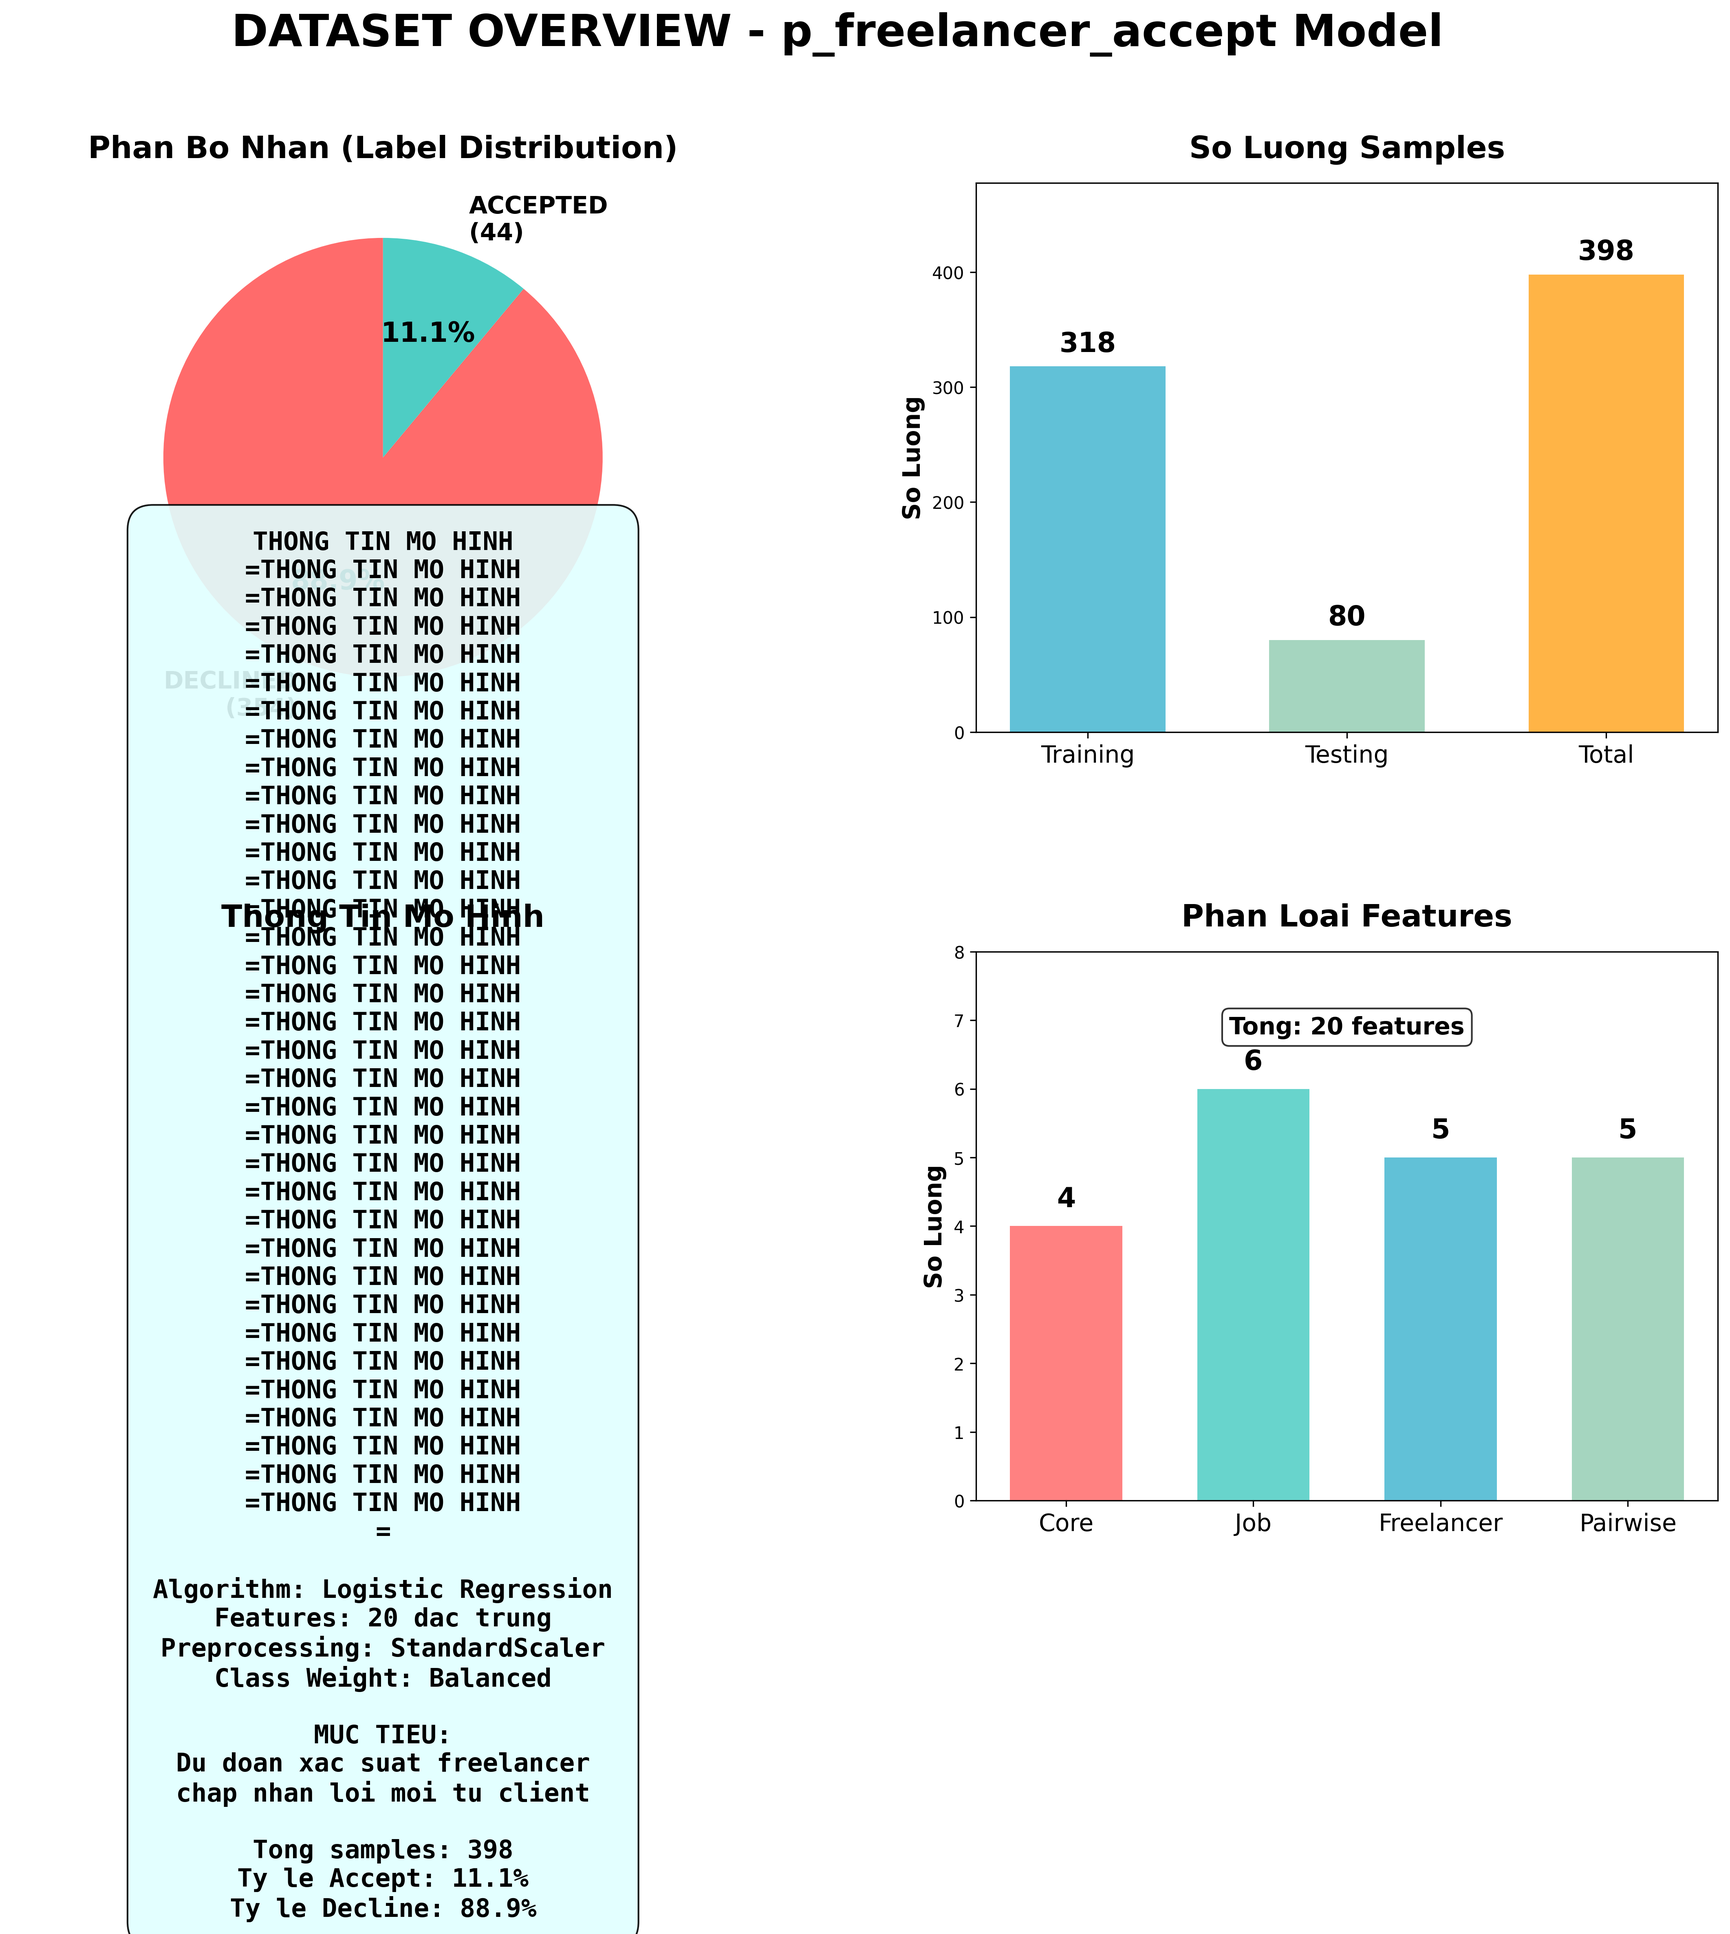
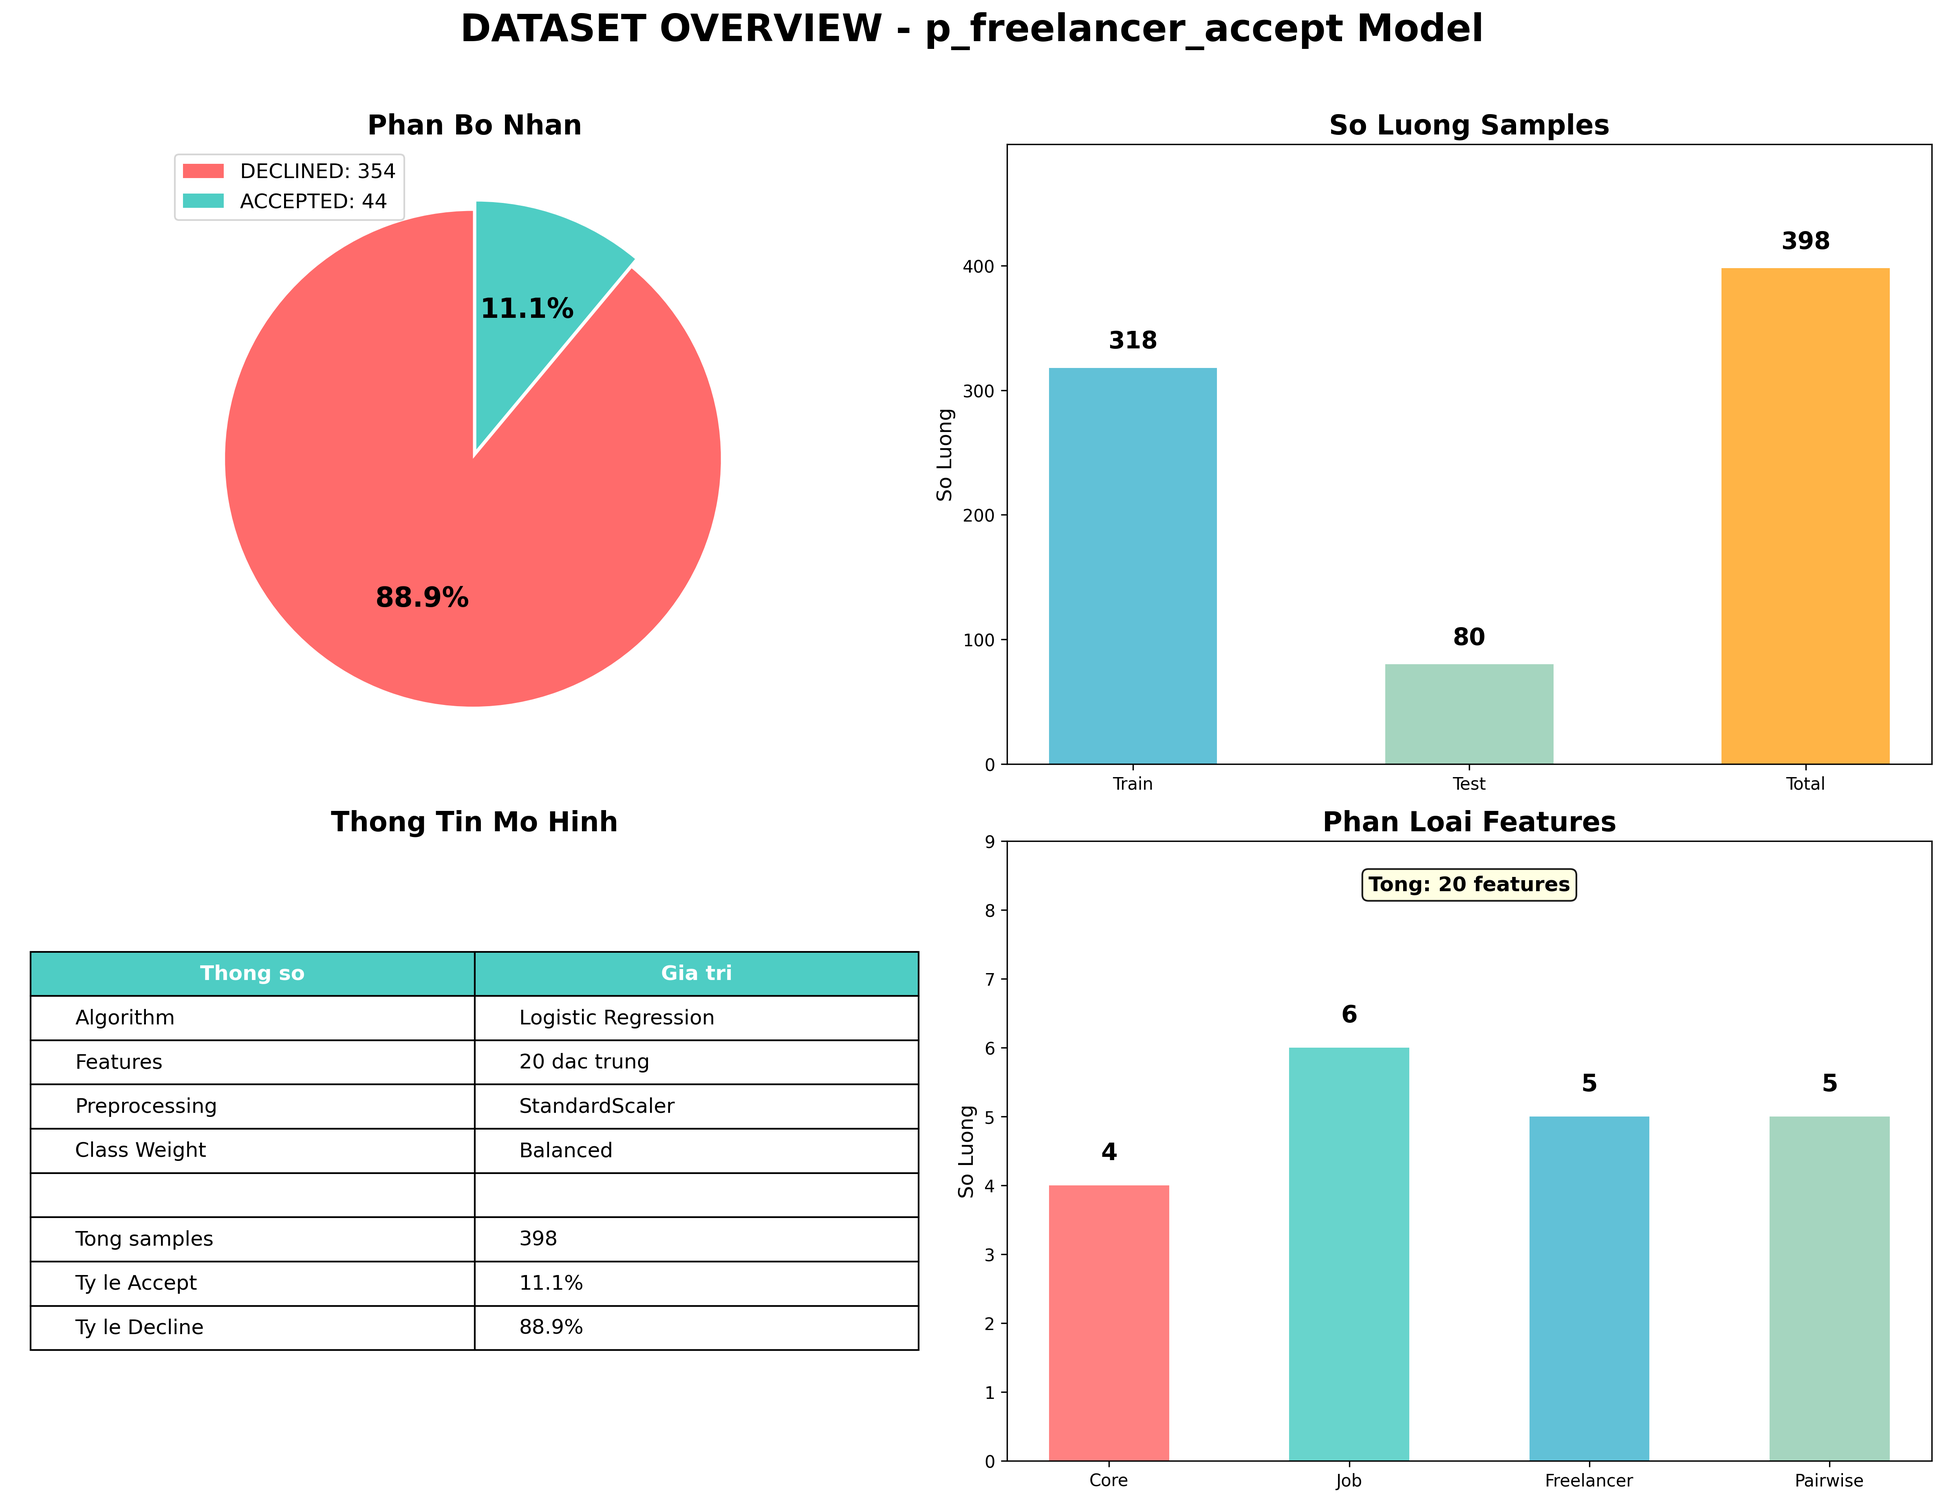
statistic file

diff --git a/app/workers/train_p_match_separate_charts.py b/app/workers/train_p_match_separate_charts.py
@@ -214,83 +214,91 @@ def create_feature_importance_chart(model, feature_cols):
 def create_dataset_overview_chart(dataset_info, feature_cols):
     """Chart 4: Dataset Overview"""
     
-    fig = plt.figure(figsize=(18, 14))
-    
-    gs = fig.add_gridspec(2, 2, hspace=0.4, wspace=0.3)
-    
-    ax1 = fig.add_subplot(gs[0, 0])
-    ax2 = fig.add_subplot(gs[0, 1])
-    ax3 = fig.add_subplot(gs[1, 0])
-    ax4 = fig.add_subplot(gs[1, 1])
+    fig, axes = plt.subplots(2, 2, figsize=(16, 12))
+    ax1, ax2, ax3, ax4 = axes[0, 0], axes[0, 1], axes[1, 0], axes[1, 1]
     
     fig.suptitle('DATASET OVERVIEW - p_match Model', 
-                 fontsize=26, fontweight='bold', y=0.98)
+                 fontsize=22, fontweight='bold', y=1.02)
     
-    # ===== 1. Label Distribution =====
-    labels = ['NO MATCH\n({:,})'.format(dataset_info['negative']), 
-              'MATCH\n({:,})'.format(dataset_info['positive'])]
+    # ===== 1. Label Distribution (Pie Chart) =====
     sizes = [dataset_info['negative'], dataset_info['positive']]
     colors = ['#FF6B6B', '#4ECDC4']
+    explode = (0.02, 0.02)
     
     wedges, texts, autotexts = ax1.pie(
-        sizes, labels=labels, autopct='%1.1f%%', 
-        colors=colors, startangle=90, 
-        textprops={'fontsize': 14, 'fontweight': 'bold'},
-        pctdistance=0.6,
-        labeldistance=1.15
+        sizes, 
+        explode=explode,
+        autopct='%1.1f%%', 
+        colors=colors, 
+        startangle=90,
+        textprops={'fontsize': 14}
     )
-    ax1.set_title('Phan Bo Nhan (Label Distribution)', fontsize=18, fontweight='bold', pad=15)
     
     for autotext in autotexts:
         autotext.set_fontsize(16)
         autotext.set_fontweight('bold')
     
-    # ===== 2. Sample Counts =====
-    categories = ['Training', 'Testing', 'Total']
+    ax1.legend(
+        [f'NO MATCH: {dataset_info["negative"]:,}', 
+         f'MATCH: {dataset_info["positive"]:,}'],
+        loc='upper left',
+        fontsize=12
+    )
+    ax1.set_title('Phan Bo Nhan', fontsize=16, fontweight='bold')
+    
+    # ===== 2. Sample Counts (Bar Chart) =====
+    categories = ['Train', 'Test', 'Total']
     counts = [dataset_info['train'], dataset_info['test'], dataset_info['total']]
     colors_bar = ['#45B7D1', '#96CEB4', '#FFA726']
     
-    bars = ax2.bar(categories, counts, color=colors_bar, alpha=0.85, width=0.6)
-    ax2.set_title('So Luong Samples', fontsize=18, fontweight='bold', pad=15)
-    ax2.set_ylabel('So Luong', fontsize=14, fontweight='bold')
-    ax2.set_ylim(0, max(counts) * 1.2)
+    bars = ax2.bar(categories, counts, color=colors_bar, alpha=0.85, width=0.5)
+    ax2.set_title('So Luong Samples', fontsize=16, fontweight='bold')
+    ax2.set_ylabel('So Luong', fontsize=12)
+    ax2.set_ylim(0, max(counts) * 1.25)
     
     for bar, count in zip(bars, counts):
-        ax2.text(bar.get_x() + bar.get_width()/2, bar.get_height() + max(counts)*0.02, 
+        ax2.text(bar.get_x() + bar.get_width()/2, bar.get_height() + max(counts)*0.03, 
                 f'{count:,}', ha='center', va='bottom', 
-                fontsize=16, fontweight='bold')
+                fontsize=14, fontweight='bold')
     
-    ax2.tick_params(axis='x', labelsize=14)
-    
-    # ===== 3. Model Info =====
+    # ===== 3. Model Info - Dùng table thay vì text =====
     ax3.axis('off')
-    model_info = (
-        "THONG TIN MO HINH\n"
-        "=" * 35 + "\n\n"
-        f"Algorithm: Logistic Regression\n"
-        f"Features: {len(feature_cols)} dac trung\n"
-        f"Preprocessing: StandardScaler\n"
-        f"Class Weight: Balanced\n\n"
-        "MUC TIEU:\n"
-        "Du doan xac suat cap job-freelancer\n"
-        "co thanh cong (contract/offer accepted)\n\n"
-        f"Tong samples: {dataset_info['total']:,}\n"
-        f"Ty le Match: {dataset_info['pos_rate']:.1%}\n"
-        f"Ty le No Match: {dataset_info['neg_rate']:.1%}"
+    ax3.set_title('Thong Tin Mo Hinh', fontsize=16, fontweight='bold')
+    
+    # Tạo table data
+    table_data = [
+        ['Algorithm', 'Logistic Regression'],
+        ['Features', f'{len(feature_cols)} dac trung'],
+        ['Preprocessing', 'StandardScaler'],
+        ['Class Weight', 'Balanced'],
+        ['', ''],
+        ['Tong samples', f'{dataset_info["total"]:,}'],
+        ['Ty le Match', f'{dataset_info["pos_rate"]:.1%}'],
+        ['Ty le No Match', f'{dataset_info["neg_rate"]:.1%}'],
+    ]
+    
+    table = ax3.table(
+        cellText=table_data,
+        colLabels=['Thong so', 'Gia tri'],
+        loc='center',
+        cellLoc='left',
+        colWidths=[0.4, 0.4]
     )
+    table.auto_set_font_size(False)
+    table.set_fontsize(12)
+    table.scale(1.2, 1.8)
     
-    ax3.text(0.5, 0.5, model_info, transform=ax3.transAxes, 
-             fontsize=15, verticalalignment='center', horizontalalignment='center',
-             fontweight='bold', family='monospace',
-             bbox=dict(boxstyle="round,pad=1", facecolor="lightcyan", alpha=0.9))
-    ax3.set_title('Thong Tin Mo Hinh', fontsize=18, fontweight='bold', pad=15)
+    # Style header
+    for i in range(2):
+        table[(0, i)].set_facecolor('#4ECDC4')
+        table[(0, i)].set_text_props(fontweight='bold', color='white')
     
-    # ===== 4. Feature Categories =====
+    # ===== 4. Feature Categories (Bar Chart) =====
     # Count actual feature categories
-    core_count = 4  # similarity, budget_gap, timezone_gap, level_gap
-    job_count = 6   # job_*
-    fl_count = 6    # freelancer_*
-    pair_count = 5  # skill_overlap, has_past_collaboration, etc.
+    core_count = 4
+    job_count = 6
+    fl_count = 6
+    pair_count = 5
     region_count = len([c for c in feature_cols if c.startswith('region_')])
     
     feature_categories = {'Core': core_count, 'Job': job_count, 
@@ -300,23 +308,23 @@ def create_dataset_overview_chart(dataset_info, feature_cols):
     
     colors_feat = ['#FF6B6B', '#4ECDC4', '#45B7D1', '#96CEB4', '#FFA726'][:len(feature_categories)]
     bars_feat = ax4.bar(feature_categories.keys(), feature_categories.values(), 
-                        color=colors_feat, alpha=0.85, width=0.6)
-    ax4.set_title('Phan Loai Features', fontsize=18, fontweight='bold', pad=15)
-    ax4.set_ylabel('So Luong', fontsize=14, fontweight='bold')
-    ax4.set_ylim(0, max(feature_categories.values()) + 3)
+                        color=colors_feat, alpha=0.85, width=0.5)
+    ax4.set_title('Phan Loai Features', fontsize=16, fontweight='bold')
+    ax4.set_ylabel('So Luong', fontsize=12)
+    ax4.set_ylim(0, max(feature_categories.values()) + 4)
     
     for bar, count in zip(bars_feat, feature_categories.values()):
-        ax4.text(bar.get_x() + bar.get_width()/2, bar.get_height() + 0.2, 
+        ax4.text(bar.get_x() + bar.get_width()/2, bar.get_height() + 0.3, 
                 f'{count}', ha='center', va='bottom', 
-                fontsize=16, fontweight='bold')
+                fontsize=14, fontweight='bold')
     
-    ax4.tick_params(axis='x', labelsize=14)
-    
-    ax4.text(0.5, 0.9, f'Tong: {len(feature_cols)} features', 
+    # Total annotation
+    ax4.text(0.5, 0.92, f'Tong: {len(feature_cols)} features', 
              transform=ax4.transAxes, ha='center',
-             fontsize=14, fontweight='bold',
-             bbox=dict(boxstyle="round,pad=0.3", facecolor="white", alpha=0.8))
+             fontsize=12, fontweight='bold',
+             bbox=dict(boxstyle="round,pad=0.3", facecolor="lightyellow", alpha=0.9))
     
+    plt.tight_layout()
     output_file = OUTPUT_DIR / "04_dataset_overview.png"
     plt.savefig(output_file, dpi=300, bbox_inches='tight', facecolor='white')
     plt.close()

diff --git a/app/workers/train_p_freelancer_accept_separate_charts.py b/app/workers/train_p_freelancer_accept_separate_charts.py
@@ -224,110 +224,107 @@ def create_feature_importance_chart(model, feature_cols):
 def create_dataset_overview_chart(dataset_info, feature_cols):
     """Chart 4: Dataset Overview - Chia thành 4 phần rõ ràng"""
     
-    # Tăng figsize và dùng constrained_layout
-    fig = plt.figure(figsize=(18, 14))
+    fig, axes = plt.subplots(2, 2, figsize=(16, 12))
+    ax1, ax2, ax3, ax4 = axes[0, 0], axes[0, 1], axes[1, 0], axes[1, 1]
     
-    # Sử dụng GridSpec để kiểm soát layout tốt hơn
-    gs = fig.add_gridspec(2, 2, hspace=0.4, wspace=0.3)
-    
-    ax1 = fig.add_subplot(gs[0, 0])
-    ax2 = fig.add_subplot(gs[0, 1])
-    ax3 = fig.add_subplot(gs[1, 0])
-    ax4 = fig.add_subplot(gs[1, 1])
-    
-    # Main title với padding lớn
     fig.suptitle('DATASET OVERVIEW - p_freelancer_accept Model', 
-                 fontsize=26, fontweight='bold', y=0.98)
+                 fontsize=22, fontweight='bold', y=1.02)
     
     # ===== 1. Label Distribution (Pie Chart) =====
-    labels = ['DECLINED\n({:,})'.format(dataset_info['negative']), 
-              'ACCEPTED\n({:,})'.format(dataset_info['positive'])]
     sizes = [dataset_info['negative'], dataset_info['positive']]
     colors = ['#FF6B6B', '#4ECDC4']
+    explode = (0.02, 0.02)
     
     wedges, texts, autotexts = ax1.pie(
-        sizes, labels=labels, autopct='%1.1f%%', 
-        colors=colors, startangle=90, 
-        textprops={'fontsize': 14, 'fontweight': 'bold'},
-        pctdistance=0.6,  # Đưa % vào trong hơn
-        labeldistance=1.15  # Đưa label ra xa hơn
+        sizes, 
+        explode=explode,
+        autopct='%1.1f%%', 
+        colors=colors, 
+        startangle=90,
+        textprops={'fontsize': 14}
     )
-    ax1.set_title('Phan Bo Nhan (Label Distribution)', fontsize=18, fontweight='bold', pad=15)
     
     for autotext in autotexts:
         autotext.set_fontsize(16)
         autotext.set_fontweight('bold')
     
+    ax1.legend(
+        [f'DECLINED: {dataset_info["negative"]:,}', 
+         f'ACCEPTED: {dataset_info["positive"]:,}'],
+        loc='upper left',
+        fontsize=12
+    )
+    ax1.set_title('Phan Bo Nhan', fontsize=16, fontweight='bold')
+    
     # ===== 2. Sample Counts (Bar Chart) =====
-    categories = ['Training', 'Testing', 'Total']
+    categories = ['Train', 'Test', 'Total']
     counts = [dataset_info['train'], dataset_info['test'], dataset_info['total']]
     colors_bar = ['#45B7D1', '#96CEB4', '#FFA726']
     
-    bars = ax2.bar(categories, counts, color=colors_bar, alpha=0.85, width=0.6)
-    ax2.set_title('So Luong Samples', fontsize=18, fontweight='bold', pad=15)
-    ax2.set_ylabel('So Luong', fontsize=14, fontweight='bold')
-    
-    # Tăng ylim để có không gian cho text
-    ax2.set_ylim(0, max(counts) * 1.2)
+    bars = ax2.bar(categories, counts, color=colors_bar, alpha=0.85, width=0.5)
+    ax2.set_title('So Luong Samples', fontsize=16, fontweight='bold')
+    ax2.set_ylabel('So Luong', fontsize=12)
+    ax2.set_ylim(0, max(counts) * 1.25)
     
     for bar, count in zip(bars, counts):
-        ax2.text(bar.get_x() + bar.get_width()/2, bar.get_height() + max(counts)*0.02, 
+        ax2.text(bar.get_x() + bar.get_width()/2, bar.get_height() + max(counts)*0.03, 
                 f'{count:,}', ha='center', va='bottom', 
-                fontsize=16, fontweight='bold')
+                fontsize=14, fontweight='bold')
     
-    ax2.tick_params(axis='x', labelsize=14)
-    
-    # ===== 3. Model Info (Text Box) =====
+    # ===== 3. Model Info - Dùng table thay vì text =====
     ax3.axis('off')
-    model_info = (
-        "THONG TIN MO HINH\n"
-        "=" * 35 + "\n\n"
-        f"Algorithm: Logistic Regression\n"
-        f"Features: {len(feature_cols)} dac trung\n"
-        f"Preprocessing: StandardScaler\n"
-        f"Class Weight: Balanced\n\n"
-        "MUC TIEU:\n"
-        "Du doan xac suat freelancer\n"
-        "chap nhan loi moi tu client\n\n"
-        f"Tong samples: {dataset_info['total']:,}\n"
-        f"Ty le Accept: {dataset_info['pos_rate']:.1%}\n"
-        f"Ty le Decline: {dataset_info['neg_rate']:.1%}"
+    ax3.set_title('Thong Tin Mo Hinh', fontsize=16, fontweight='bold')
+    
+    # Tạo table data
+    table_data = [
+        ['Algorithm', 'Logistic Regression'],
+        ['Features', f'{len(feature_cols)} dac trung'],
+        ['Preprocessing', 'StandardScaler'],
+        ['Class Weight', 'Balanced'],
+        ['', ''],
+        ['Tong samples', f'{dataset_info["total"]:,}'],
+        ['Ty le Accept', f'{dataset_info["pos_rate"]:.1%}'],
+        ['Ty le Decline', f'{dataset_info["neg_rate"]:.1%}'],
+    ]
+    
+    table = ax3.table(
+        cellText=table_data,
+        colLabels=['Thong so', 'Gia tri'],
+        loc='center',
+        cellLoc='left',
+        colWidths=[0.4, 0.4]
     )
+    table.auto_set_font_size(False)
+    table.set_fontsize(12)
+    table.scale(1.2, 1.8)
     
-    ax3.text(0.5, 0.5, model_info, transform=ax3.transAxes, 
-             fontsize=15, verticalalignment='center', horizontalalignment='center',
-             fontweight='bold', family='monospace',
-             bbox=dict(boxstyle="round,pad=1", facecolor="lightcyan", alpha=0.9))
-    ax3.set_title('Thong Tin Mo Hinh', fontsize=18, fontweight='bold', pad=15)
+    # Style header
+    for i in range(2):
+        table[(0, i)].set_facecolor('#4ECDC4')
+        table[(0, i)].set_text_props(fontweight='bold', color='white')
     
-    # ===== 4. Feature Categories (Simple Bar Chart thay vì Donut) =====
-    feature_categories = {
-        'Core': 4,
-        'Job': 6,
-        'Freelancer': 5,
-        'Pairwise': 5
-    }
+    # ===== 4. Feature Categories (Bar Chart) =====
+    feature_categories = {'Core': 4, 'Job': 6, 'Freelancer': 5, 'Pairwise': 5}
     
     colors_feat = ['#FF6B6B', '#4ECDC4', '#45B7D1', '#96CEB4']
     bars_feat = ax4.bar(feature_categories.keys(), feature_categories.values(), 
-                        color=colors_feat, alpha=0.85, width=0.6)
-    ax4.set_title('Phan Loai Features', fontsize=18, fontweight='bold', pad=15)
-    ax4.set_ylabel('So Luong', fontsize=14, fontweight='bold')
-    ax4.set_ylim(0, 8)
+                        color=colors_feat, alpha=0.85, width=0.5)
+    ax4.set_title('Phan Loai Features', fontsize=16, fontweight='bold')
+    ax4.set_ylabel('So Luong', fontsize=12)
+    ax4.set_ylim(0, 9)
     
     for bar, count in zip(bars_feat, feature_categories.values()):
-        ax4.text(bar.get_x() + bar.get_width()/2, bar.get_height() + 0.2, 
+        ax4.text(bar.get_x() + bar.get_width()/2, bar.get_height() + 0.3, 
                 f'{count}', ha='center', va='bottom', 
-                fontsize=16, fontweight='bold')
+                fontsize=14, fontweight='bold')
     
-    ax4.tick_params(axis='x', labelsize=14)
-    
-    # Total features annotation
-    ax4.text(0.5, 0.85, f'Tong: {len(feature_cols)} features', 
+    # Total annotation
+    ax4.text(0.5, 0.92, f'Tong: {len(feature_cols)} features', 
              transform=ax4.transAxes, ha='center',
-             fontsize=14, fontweight='bold',
-             bbox=dict(boxstyle="round,pad=0.3", facecolor="white", alpha=0.8))
+             fontsize=12, fontweight='bold',
+             bbox=dict(boxstyle="round,pad=0.3", facecolor="lightyellow", alpha=0.9))
     
+    plt.tight_layout()
     output_file = OUTPUT_DIR / "04_dataset_overview.png"
     plt.savefig(output_file, dpi=300, bbox_inches='tight', facecolor='white')
     plt.close()
